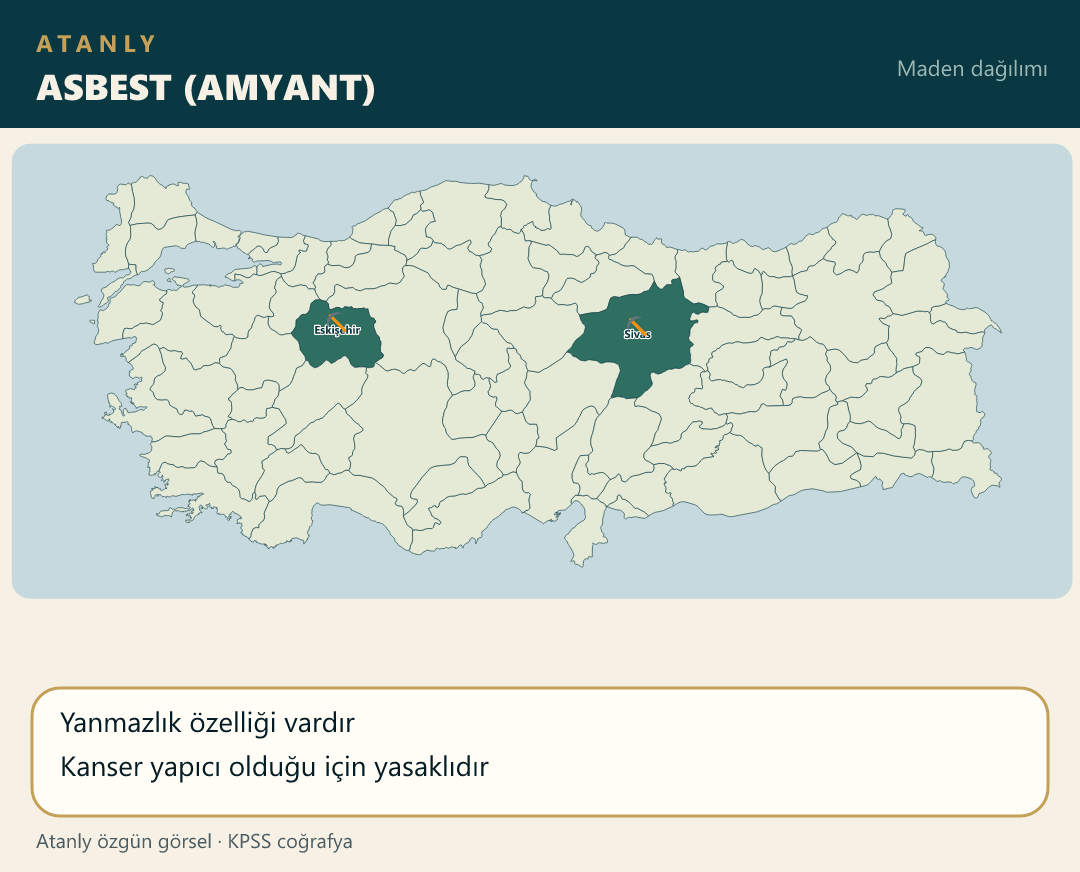
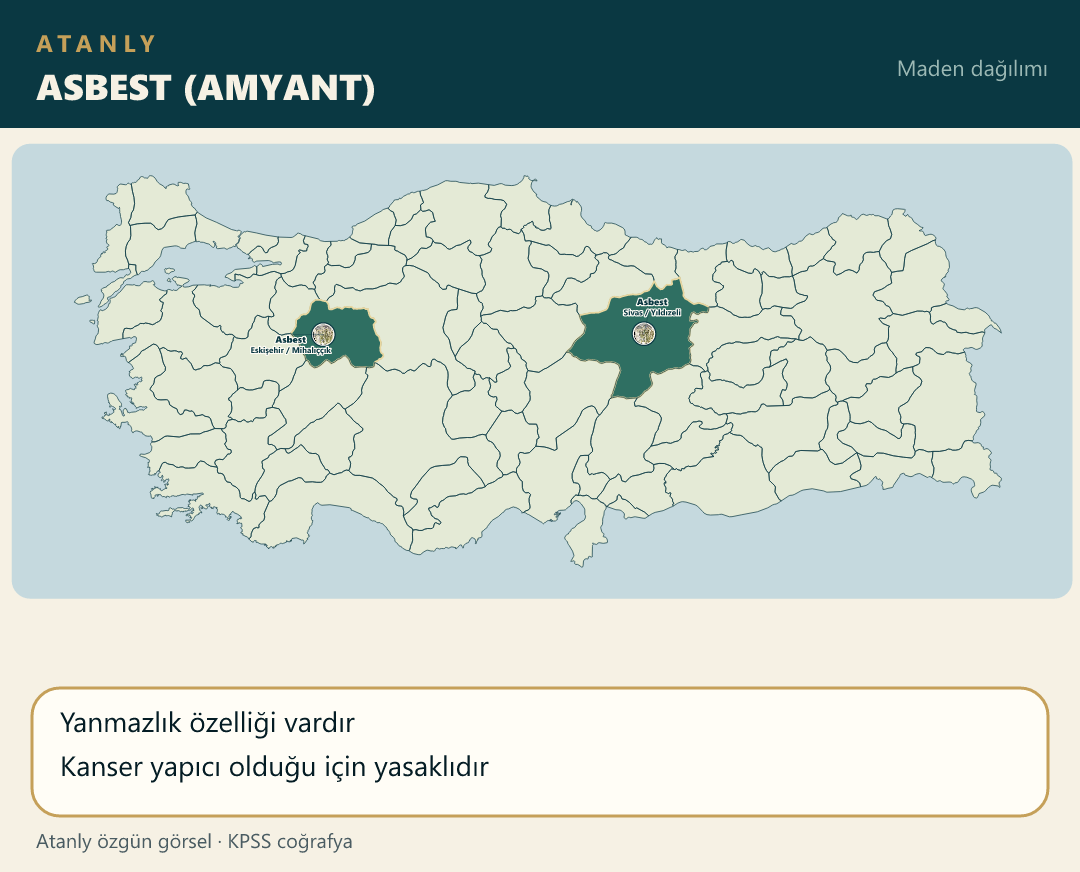
Place the asbestos photo on Eskişehir and Sivas mine pins.

diff --git a/scripts/build-atanly-maps.js b/scripts/build-atanly-maps.js
@@ -484,7 +484,7 @@ function topicIcon(file) {
         milliparklar: "park",
         madengenel: "ore", madendemir: "iron", madenbakir: "copper", madenboksit: "bauxite",
         madenkrom: "chrome", madenbarit: "barite", madenbor: "boron", madenmermer: "marble",
-        madenfosfat: "phosphate", madenasbest: "ore", madentrona: "salt", madenaltin: "gold",
+        madenfosfat: "phosphate", madenasbest: "asbestos", madentrona: "salt", madenaltin: "gold",
         madenuranyum: "uranium", madentoryum: "uranium", madenciva: "mercury", madentuz: "salt",
         madenperlit: "rock", madenpomza: "rock", madenkukurt: "sulfur", madenmanganez: "iron",
         madenkursun: "lead", madenoltu: "jet", madenlule: "rock", madenvolfram: "tungsten",
@@ -1009,7 +1009,11 @@ function main() {
         { file: "maden_fosfat.png", title: "FOSFAT", iller: ["Mardin"],
             yazilar: ["Mazıdağı"],
             facts: ["Gübre hammaddesi", "Rezerv azdır", "Mazıdağı’nda hem çıkarılır hem işlenir"] },
-        { file: "maden_asbest.png", title: "ASBEST (AMYANT)", iller: ["Eskişehir", "Sivas"],
+        { file: "maden_asbest.png", title: "ASBEST (AMYANT)", urun: "Asbest",
+            noktalar: [
+                { il: "Eskişehir", ilce: "Mihalıççık", ldx: -32, ldy: 8 },
+                { il: "Sivas", ilce: "Yıldızeli", ldx: 8, ldy: -28 }
+            ],
             facts: ["Yanmazlık özelliği vardır", "Kanser yapıcı olduğu için yasaklıdır"] },
         { file: "maden_trona.png", title: "TRONA (SODA KÜLÜ)", iller: ["Ankara"],
             yazilar: ["Beypazarı · Kazan"],

diff --git a/notlar/cografya-21-not.js b/notlar/cografya-21-not.js
@@ -2,7 +2,7 @@
 (function () {
     function harita(src, alt) {
         return '<div class="mt-4 overflow-hidden rounded-xl border border-blue-200 dark:border-blue-700/50 bg-white dark:bg-slate-800 p-2">' +
-            '<img src="./src/img/' + src + '?v=12" alt="' + alt + ' Haritası" class="w-full h-auto rounded-lg object-contain" loading="lazy">' +
+            '<img src="./src/img/' + src + '?v=13" alt="' + alt + ' Haritası" class="w-full h-auto rounded-lg object-contain" loading="lazy">' +
             "</div>";
     }
 

diff --git a/index.html b/index.html
@@ -119,7 +119,7 @@
     <script src="notlar/cografya-18-not.js?v=17"></script>
     <script src="notlar/cografya-19-not.js?v=25"></script>
     <script src="notlar/cografya-20-not.js?v=1"></script>
-    <script src="notlar/cografya-21-not.js?v=5"></script>
+    <script src="notlar/cografya-21-not.js?v=6"></script>
     <script src="notlar/cografya-22-not.js?v=1"></script>
     <script src="notlar/cografya-23-not.js?v=1"></script>
     <script src="notlar/cografya-24-not.js?v=1"></script>
